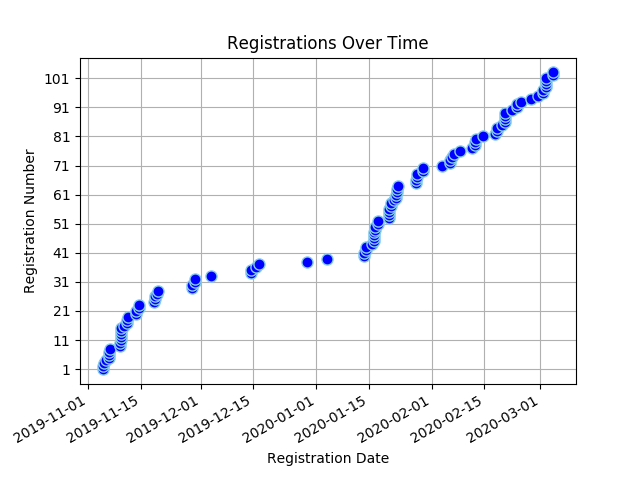
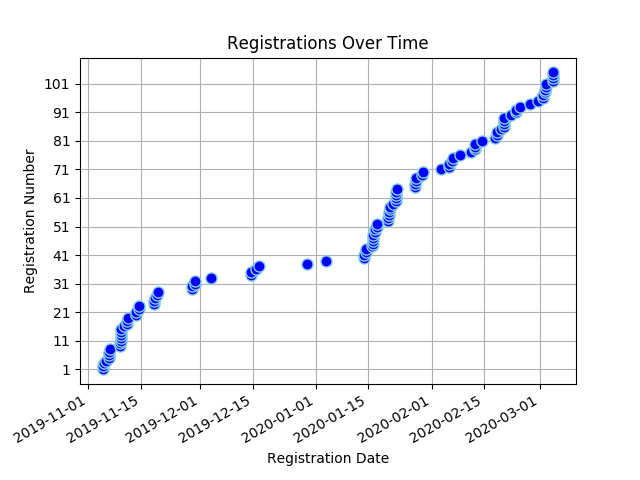
Registree stats backup on Wed Mar  4 16:59:37 SAST 2020

diff --git a/content/registrees/_index.md b/content/registrees/_index.md
@@ -3,7 +3,7 @@ title: Registration Stats
 draft: false
 ---
 
-<ul><li><strong>Number of Registrees</strong>: 103</li>
+<ul><li><strong>Number of Registrees</strong>: 105</li>
 
 <li><strong>Number of Clubs</strong>: 46</li>
 
@@ -30,6 +30,6 @@ draft: false
         </tr>
     </thead>
     <tbody>
-<tr><td>Linda Anderson</td><td>George</td></tr><tr><td>Karl Bands</td><td>Helderkruin</td></tr><tr><td>Jonquille Bands</td><td>Helderkruin</td></tr><tr><td>Valencia Beukes</td><td>Kuilsriver</td></tr><tr><td>Lyn Botha</td><td>Cowies Hill</td></tr><tr><td>Annette Bothma</td><td>Fish Hoek</td></tr><tr><td>Jose Braga Borges</td><td>Malmesbury</td></tr><tr><td>Nkandu Chapeshamano</td><td>Rustenburg</td></tr><tr><td>Lynnette Virginia Christians</td><td>Cape Of Good Hope</td></tr><tr><td>Sharon Cottle</td><td>Groote Schuur</td></tr><tr><td>Ivan Du Plooy</td><td>Krugersdorp</td></tr><tr><td>Peggy Du Plooy</td><td>Krugersdorp</td></tr><tr><td>Desiree Du Toit</td><td>Ramsgate</td></tr><tr><td>Charles Flanagan</td><td>Tokai</td></tr><tr><td>Julie Flanagan</td><td>Tokai</td></tr><tr><td>Allison Georges</td><td>Cape Of Good Hope</td></tr><tr><td>Bernd Gerhard</td><td>Wilro Park</td></tr><tr><td>Shirley Gerhard</td><td>Wilro Park</td></tr><tr><td>Valerie Graham</td><td>Nelspruit</td></tr><tr><td>Michael Graham</td><td>Nelspruit</td></tr><tr><td>Barbara Haywood</td><td>Eden</td></tr><tr><td>Wendy Higgins</td><td>Wilro Park</td></tr><tr><td>Trevor Hobbs</td><td>North Durban</td></tr><tr><td>Avril Hobbs</td><td>North Durban</td></tr><tr><td>Jacqui Hocking</td><td>Midrand</td></tr><tr><td>Cliff Hocking</td><td>Midrand</td></tr><tr><td>Leslie Human</td><td>East London Port Rex</td></tr><tr><td>Akinyemi Ismaila Tunde</td><td>Alberton</td></tr><tr><td>Dawid Jacobs</td><td>Durbanville</td></tr><tr><td>Jean Jacobs</td><td>Mitchells Plain</td></tr><tr><td>Brenda Joshua</td><td>Cape Of Good Hope</td></tr><tr><td>Marco Joubert</td><td>Tygerberg Hills</td></tr><tr><td>Charlotte Jubelin</td><td>Cape Of Good Hope</td></tr><tr><td>Pascal Kabangu</td><td>Cape Of Good Hope</td></tr><tr><td>Zwaai Krüger</td><td>Sedgefield</td></tr><tr><td>Bevil Lakay</td><td>Mitchells Plain</td></tr><tr><td>Paula Lang</td><td>Gordons Bay</td></tr><tr><td>James Malcolm Lang</td><td>Gordons Bay</td></tr><tr><td>Heather Lee</td><td>Cape Of Good Hope</td></tr><tr><td>Darrol Lee</td><td>Cape Of Good Hope</td></tr><tr><td>Tony Marron</td><td>Kingsburgh</td></tr><tr><td>Nick Maré</td><td>Benoni Lakes</td></tr><tr><td>Beaulieu Maré</td><td>Benoni Lakes</td></tr><tr><td>Lance Maytham</td><td>Bredasdorp</td></tr><tr><td>Mark Meltzer</td><td>The Wilds</td></tr><tr><td>Roy Michas</td><td>Midrand</td></tr><tr><td>Dawn Michas</td><td>Midrand</td></tr><tr><td>Patrick Mills</td><td>Centurion</td></tr><tr><td>Bernice Mills</td><td>Centurion</td></tr><tr><td>Brian Moses</td><td>Cape Of Good Hope</td></tr><tr><td>Alain Moulounda</td><td>Cape Of Good Hope</td></tr><tr><td>Tillie Nel</td><td>Eden</td></tr><tr><td>Pieter Nel</td><td>George</td></tr><tr><td>Michael Newlands</td><td>Port Alfred</td></tr><tr><td>Ramona Nulliah</td><td>Durban Host</td></tr><tr><td>Gary Nulliah</td><td>Durban Host</td></tr><tr><td>William Pfaff</td><td>North Durban</td></tr><tr><td>Jessica Philander</td><td>Cape Of Good Hope</td></tr><tr><td>Gavin Polkinghorne</td><td>Kensington</td></tr><tr><td>Tracey Polkinghorne</td><td>Kensington</td></tr><tr><td>Yvonne  Maureen Poyo</td><td>Cape Of Good Hope</td></tr><tr><td>Karin Preston</td><td>Durban South</td></tr><tr><td>Leon Ras</td><td>Swellendam</td></tr><tr><td>Mary-Anne Ras</td><td>Swellendam</td></tr><tr><td>Moira Rigby</td><td>Kingsburgh</td></tr><tr><td>David Rigby</td><td>Kingsburgh</td></tr><tr><td>Mark Rossouw</td><td>Tokai</td></tr><tr><td>Sharon Sampie</td><td>Bergvliet</td></tr><tr><td>Pinky Serobatse</td><td>(Partner in Service)</td></tr><tr><td>Susanna Helena Smit</td><td>Centurion</td></tr><tr><td>Herman Smit</td><td>Swellendam</td></tr><tr><td>Berdine Smit</td><td>(Partner in Service)</td></tr><tr><td>Bennie Smith</td><td>Wellington</td></tr><tr><td>Rochelle Smith</td><td>Cape Of Good Hope</td></tr><tr><td>Jeff Smith</td><td>Port Shepstone</td></tr><tr><td>Pierre Theron</td><td>Midrand</td></tr><tr><td>Moira Theron</td><td>Midrand</td></tr><tr><td>Alex Tshikala</td><td>Athlone</td></tr><tr><td>Alistair Tuckett</td><td>Roodepoort Clearwater Cyber</td></tr><tr><td>Gail Tuckett</td><td>Roodepoort Clearwater Cyber</td></tr><tr><td>Rowan Tuckett</td><td>Roodepoort Clearwater Cyber</td></tr><tr><td>Neville Van Rensburg</td><td>Moorreesburg</td></tr><tr><td>Jeannie Van Wulven</td><td>Tygerberg Hills</td></tr><tr><td>Yolandi Van der Schyf</td><td>Midrand</td></tr><tr><td>Keith Weston</td><td>Scottburgh</td></tr><tr><td>Barbara Weston</td><td>Scottburgh</td></tr><tr><td>Joyce Wilcocks</td><td>Pretoria Jakaranda</td></tr><tr><td>Richard Williams</td><td>(Partner in Service)</td></tr><tr><td>Owolabi Williams Monzur</td><td>Badagry</td></tr><tr><td>Geila Wills</td><td>Cape Town</td></tr><tr><td>Patricia Wilson</td><td>Kingsburgh</td></tr><tr><td>Rocky Wright</td><td>Table View</td></tr><tr><td>Judy Young</td><td>Durbanville</td></tr><tr><td>Sydney van Heerden</td><td>Wilro Park</td></tr><tr><td>Sandy van Heerden</td><td>Wilro Park</td></tr><tr><td>Deon van Wulven</td><td>Tygerberg Hills</td></tr><tr><td>Janine van Wulven</td><td>Tygerberg Hills</td></tr><tr><td>Lindie van Wyk</td><td>Pretoria Jakaranda</td></tr><tr><td>Vicki van Wyk</td><td>North Durban</td></tr><tr><td>Kim van Wyk</td><td>North Durban</td></tr><tr><td>Patricia van Wyk</td><td>Pretoria Jakaranda</td></tr><tr><td>Willie van Wyk</td><td>Midrand</td></tr><tr><td>Martha Maria van der Merwe</td><td>Malmesbury</td></tr>
+<tr><td>Linda Anderson</td><td>George</td></tr><tr><td>Karl Bands</td><td>Helderkruin</td></tr><tr><td>Jonquille Bands</td><td>Helderkruin</td></tr><tr><td>Valencia Beukes</td><td>Kuilsriver</td></tr><tr><td>Lyn Botha</td><td>Cowies Hill</td></tr><tr><td>Annette Bothma</td><td>Fish Hoek</td></tr><tr><td>Jose Braga Borges</td><td>Malmesbury</td></tr><tr><td>Nkandu Chapeshamano</td><td>Rustenburg</td></tr><tr><td>Lynnette Virginia Christians</td><td>Cape Of Good Hope</td></tr><tr><td>Sharon Cottle</td><td>Groote Schuur</td></tr><tr><td>Ivan Du Plooy</td><td>Krugersdorp</td></tr><tr><td>Peggy Du Plooy</td><td>Krugersdorp</td></tr><tr><td>Desiree Du Toit</td><td>Ramsgate</td></tr><tr><td>Charles Flanagan</td><td>Tokai</td></tr><tr><td>Julie Flanagan</td><td>Tokai</td></tr><tr><td>Allison Georges</td><td>Cape Of Good Hope</td></tr><tr><td>Bernd Gerhard</td><td>Wilro Park</td></tr><tr><td>Shirley Gerhard</td><td>Wilro Park</td></tr><tr><td>Valerie Graham</td><td>Nelspruit</td></tr><tr><td>Michael Graham</td><td>Nelspruit</td></tr><tr><td>Victor Hawla</td><td>Krugersdorp</td></tr><tr><td>Loriane Hawla</td><td>(Partner in Service)</td></tr><tr><td>Barbara Haywood</td><td>Eden</td></tr><tr><td>Wendy Higgins</td><td>Wilro Park</td></tr><tr><td>Trevor Hobbs</td><td>North Durban</td></tr><tr><td>Avril Hobbs</td><td>North Durban</td></tr><tr><td>Jacqui Hocking</td><td>Midrand</td></tr><tr><td>Cliff Hocking</td><td>Midrand</td></tr><tr><td>Leslie Human</td><td>East London Port Rex</td></tr><tr><td>Akinyemi Ismaila Tunde</td><td>Alberton</td></tr><tr><td>Dawid Jacobs</td><td>Durbanville</td></tr><tr><td>Jean Jacobs</td><td>Mitchells Plain</td></tr><tr><td>Brenda Joshua</td><td>Cape Of Good Hope</td></tr><tr><td>Marco Joubert</td><td>Tygerberg Hills</td></tr><tr><td>Charlotte Jubelin</td><td>Cape Of Good Hope</td></tr><tr><td>Pascal Kabangu</td><td>Cape Of Good Hope</td></tr><tr><td>Zwaai Krüger</td><td>Sedgefield</td></tr><tr><td>Bevil Lakay</td><td>Mitchells Plain</td></tr><tr><td>Paula Lang</td><td>Gordons Bay</td></tr><tr><td>James Malcolm Lang</td><td>Gordons Bay</td></tr><tr><td>Heather Lee</td><td>Cape Of Good Hope</td></tr><tr><td>Darrol Lee</td><td>Cape Of Good Hope</td></tr><tr><td>Tony Marron</td><td>Kingsburgh</td></tr><tr><td>Nick Maré</td><td>Benoni Lakes</td></tr><tr><td>Beaulieu Maré</td><td>Benoni Lakes</td></tr><tr><td>Lance Maytham</td><td>Bredasdorp</td></tr><tr><td>Mark Meltzer</td><td>The Wilds</td></tr><tr><td>Roy Michas</td><td>Midrand</td></tr><tr><td>Dawn Michas</td><td>Midrand</td></tr><tr><td>Patrick Mills</td><td>Centurion</td></tr><tr><td>Bernice Mills</td><td>Centurion</td></tr><tr><td>Brian Moses</td><td>Cape Of Good Hope</td></tr><tr><td>Alain Moulounda</td><td>Cape Of Good Hope</td></tr><tr><td>Tillie Nel</td><td>Eden</td></tr><tr><td>Pieter Nel</td><td>George</td></tr><tr><td>Michael Newlands</td><td>Port Alfred</td></tr><tr><td>Ramona Nulliah</td><td>Durban Host</td></tr><tr><td>Gary Nulliah</td><td>Durban Host</td></tr><tr><td>William Pfaff</td><td>North Durban</td></tr><tr><td>Jessica Philander</td><td>Cape Of Good Hope</td></tr><tr><td>Gavin Polkinghorne</td><td>Kensington</td></tr><tr><td>Tracey Polkinghorne</td><td>Kensington</td></tr><tr><td>Yvonne  Maureen Poyo</td><td>Cape Of Good Hope</td></tr><tr><td>Karin Preston</td><td>Durban South</td></tr><tr><td>Leon Ras</td><td>Swellendam</td></tr><tr><td>Mary-Anne Ras</td><td>Swellendam</td></tr><tr><td>Moira Rigby</td><td>Kingsburgh</td></tr><tr><td>David Rigby</td><td>Kingsburgh</td></tr><tr><td>Mark Rossouw</td><td>Tokai</td></tr><tr><td>Sharon Sampie</td><td>Bergvliet</td></tr><tr><td>Pinky Serobatse</td><td>(Partner in Service)</td></tr><tr><td>Susanna Helena Smit</td><td>Centurion</td></tr><tr><td>Herman Smit</td><td>Swellendam</td></tr><tr><td>Berdine Smit</td><td>(Partner in Service)</td></tr><tr><td>Bennie Smith</td><td>Wellington</td></tr><tr><td>Rochelle Smith</td><td>Cape Of Good Hope</td></tr><tr><td>Jeff Smith</td><td>Port Shepstone</td></tr><tr><td>Pierre Theron</td><td>Midrand</td></tr><tr><td>Moira Theron</td><td>Midrand</td></tr><tr><td>Alex Tshikala</td><td>Athlone</td></tr><tr><td>Alistair Tuckett</td><td>Roodepoort Clearwater Cyber</td></tr><tr><td>Gail Tuckett</td><td>Roodepoort Clearwater Cyber</td></tr><tr><td>Rowan Tuckett</td><td>Roodepoort Clearwater Cyber</td></tr><tr><td>Neville Van Rensburg</td><td>Moorreesburg</td></tr><tr><td>Jeannie Van Wulven</td><td>Tygerberg Hills</td></tr><tr><td>Yolandi Van der Schyf</td><td>Midrand</td></tr><tr><td>Keith Weston</td><td>Scottburgh</td></tr><tr><td>Barbara Weston</td><td>Scottburgh</td></tr><tr><td>Joyce Wilcocks</td><td>Pretoria Jakaranda</td></tr><tr><td>Richard Williams</td><td>(Partner in Service)</td></tr><tr><td>Owolabi Williams Monzur</td><td>Badagry</td></tr><tr><td>Geila Wills</td><td>Cape Town</td></tr><tr><td>Patricia Wilson</td><td>Kingsburgh</td></tr><tr><td>Rocky Wright</td><td>Table View</td></tr><tr><td>Judy Young</td><td>Durbanville</td></tr><tr><td>Sydney van Heerden</td><td>Wilro Park</td></tr><tr><td>Sandy van Heerden</td><td>Wilro Park</td></tr><tr><td>Deon van Wulven</td><td>Tygerberg Hills</td></tr><tr><td>Janine van Wulven</td><td>Tygerberg Hills</td></tr><tr><td>Lindie van Wyk</td><td>Pretoria Jakaranda</td></tr><tr><td>Vicki van Wyk</td><td>North Durban</td></tr><tr><td>Kim van Wyk</td><td>North Durban</td></tr><tr><td>Patricia van Wyk</td><td>Pretoria Jakaranda</td></tr><tr><td>Willie van Wyk</td><td>Midrand</td></tr><tr><td>Martha Maria van der Merwe</td><td>Malmesbury</td></tr>
 </tbody>
 </table>

diff --git a/content/full_stats/_index.md b/content/full_stats/_index.md
@@ -11,13 +11,13 @@
 <body>
 <h1 style="color: #000000;">Full Registration Stats</h1>
 <ul><li><strong>Number of Registrees</strong><ul>
-<li><strong>Total</strong>: 103</li>
-<li><strong>Lions</strong>: 100</li>
-<li><strong>Partners In Service</strong>: 3</li>
+<li><strong>Total</strong>: 105</li>
+<li><strong>Lions</strong>: 101</li>
+<li><strong>Partners In Service</strong>: 4</li>
 </ul>
 <li><strong>Number of Clubs</strong>: 46</li>
 <li><strong>Club With Most Attendees</strong>: Cape Of Good Hope (12 registrees)</li>
-<li><strong>Registrations</strong></li><ul><li><strong>Full</strong>: 100
+<li><strong>Registrations</strong></li><ul><li><strong>Full</strong>: 102
 <li><strong>Banquet</strong>: 1
 <li><strong>Convention</strong>: 2
 <li><strong>Theme</strong>: 1
@@ -28,13 +28,13 @@
 <li><strong>PDG Breakfast</strong>: 27
 <li><strong>Sharks Board</strong>: 6
 <li><strong>Golf</strong>: 3
-<li><strong>Sight Seeing</strong>: 9
+<li><strong>Sight Seeing</strong>: 10
 <li><strong>Service Project</strong>: 21
-<li><strong>Partner Program</strong>: 3
+<li><strong>Partner Program</strong>: 4
 </ul>
-<li><strong>Total Owed:</strong> R134870.00</li>
+<li><strong>Total Owed:</strong> R137440.00</li>
 <li><strong>Paid:</strong> R63075.00</li>
-<li><strong>Still Owed:</strong> R71795.00</li>
+<li><strong>Still Owed:</strong> R74365.00</li>
 <li><strong>Dietary Requirements</strong></li><ul>
 <li>Allergic to Shellfish</li>
 <li>Allergic to cheese and cream</li>
@@ -297,6 +297,28 @@ StillOwed
 <td>1340.00</td>
 <td>1340.00</td>
 <td>0.00</td>
+</tr>
+
+    
+<tr style="background-color: yellow">
+<td>116</td>
+<td>Victor Hawla</td>
+<td>Krugersdorp</td>
+<td>Victor Hawla </td>
+<td>1285.00</td>
+<td>0.00</td>
+<td>1285.00</td>
+</tr>
+
+    
+<tr style="background-color: yellow">
+<td>117</td>
+<td>Loriane Hawla</td>
+<td>(Partner in Service)</td>
+<td>Loriane Hawla </td>
+<td>1285.00</td>
+<td>0.00</td>
+<td>1285.00</td>
 </tr>
 
     
